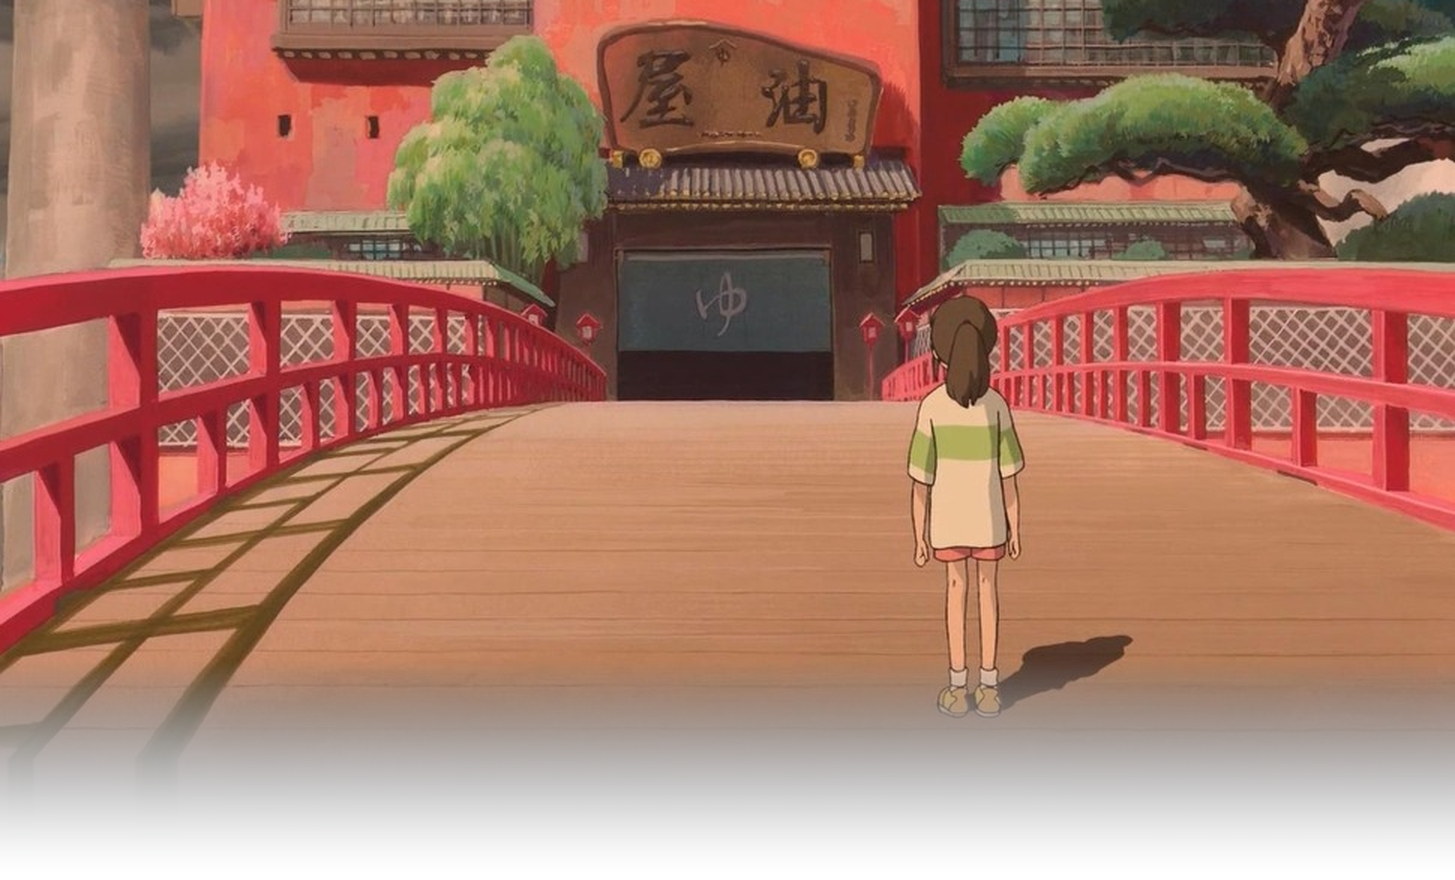
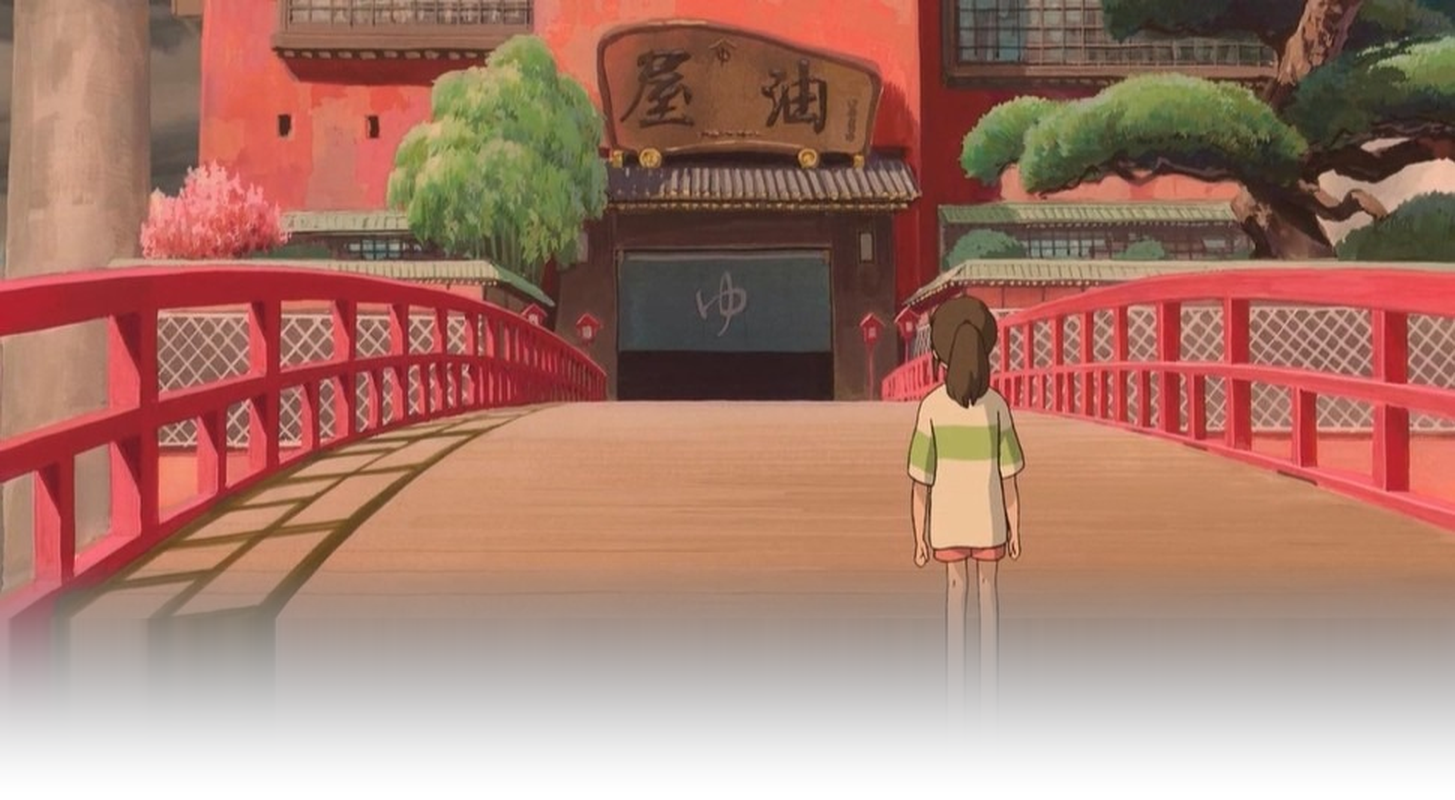
feat: apply exact user uploaded crop with vertical expansion and 240px fade

diff --git a/README.md b/README.md
@@ -1,8 +1,8 @@
 <div align="center">
   <picture>
-    <source media="(prefers-color-scheme: dark)" srcset="https://raw.githubusercontent.com/a-kio/a-kio/main/assets/header-dark.png?v=7">
-    <source media="(prefers-color-scheme: light)" srcset="https://raw.githubusercontent.com/a-kio/a-kio/main/assets/header-light.png?v=7">
-    <img src="https://raw.githubusercontent.com/a-kio/a-kio/main/assets/header-dark.png?v=7" width="100%" alt="A-kio Header Banner" />
+    <source media="(prefers-color-scheme: dark)" srcset="https://raw.githubusercontent.com/a-kio/a-kio/main/assets/header-dark.png?v=8">
+    <source media="(prefers-color-scheme: light)" srcset="https://raw.githubusercontent.com/a-kio/a-kio/main/assets/header-light.png?v=8">
+    <img src="https://raw.githubusercontent.com/a-kio/a-kio/main/assets/header-dark.png?v=8" width="100%" alt="A-kio Header Banner" />
   </picture>
 
   <p>
